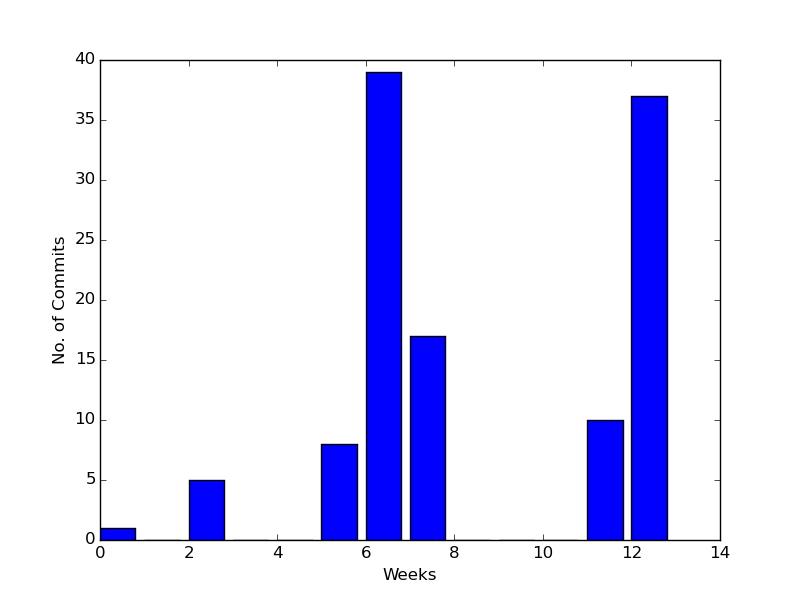
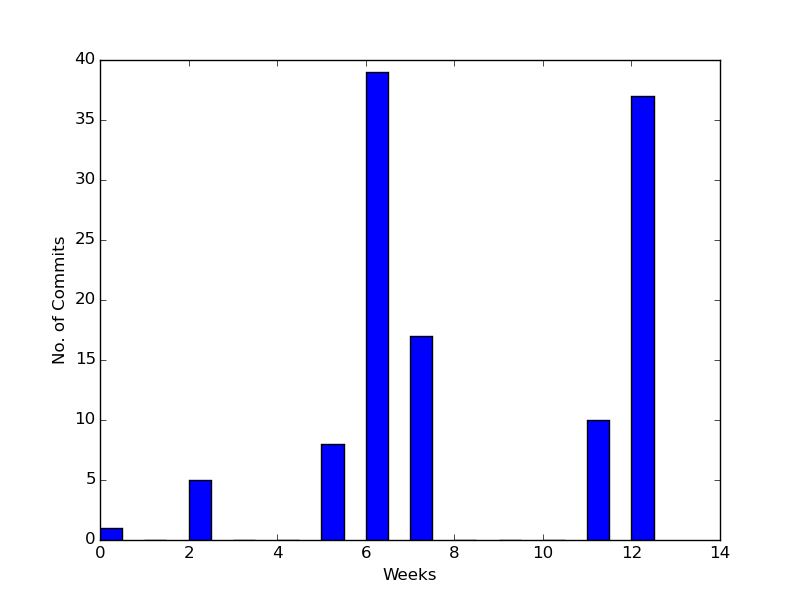
Added Standard Deviation function

diff --git a/commits/commits_standard_deviation.py b/commits/commits_standard_deviation.py
@@ -1,0 +1,89 @@
+from __future__ import print_function
+import urllib2
+import json
+import re,datetime
+import sys
+import csv
+
+
+class L():
+  "Anonymous container"
+  def __init__(i,**fields) : 
+    i.override(fields)
+  def override(i,d): i.__dict__.update(d); return i
+  def __repr__(i):
+    d = i.__dict__
+    name = i.__class__.__name__
+    return name+'{'+' '.join([':%s %s' % (k,pretty(d[k])) 
+                     for k in i.show()])+ '}'
+  def show(i):
+    lst = [str(k)+" : "+str(v) for k,v in i.__dict__.iteritems() if v != None]
+    return ',\t'.join(map(str,lst))
+
+  
+def secs(d0):
+  d     = datetime.datetime(*map(int, re.split('[^\d]', d0)[:-1]))
+  epoch = datetime.datetime.utcfromtimestamp(0)
+  delta = d - epoch
+  return delta.total_seconds()
+
+def mean(data):
+    """Return the sample arithmetic mean of data."""
+    n = len(data)
+    if n < 1:
+        raise ValueError('mean requires at least one data point')
+    return sum(data)/n # in Python 2 use sum(data)/float(n)
+
+def _ss(data):
+    """Return sum of square deviations of sequence data."""
+    c = mean(data)
+    ss = sum((x-c)**2 for x in data)
+    return ss
+
+def std_dev(data):
+    """Calculates the population standard deviation."""
+    n = len(data)
+    if n < 2:
+        raise ValueError('variance requires at least two data points')
+    ss = _ss(data)
+    pvar = ss/n # the population variance
+    return pvar**0.5
+
+def get_standard_deviation(file_name):
+  csvfile = file(file_name,'rb')
+  reader = csv.reader(csvfile)
+  t = []
+  for line in reader:
+     [a,b,c] = line
+     t.append(int(float(b)))
+  t.sort()
+  week = []
+  total_week = (t[-1]-t[0])/(7*24*3600)
+  end = []
+  for i in range(total_week):
+     end.append(t[0]+(i+1)*7*24*3600)
+
+  c = 0
+  for x in t:
+     if  x < end[0]:
+        c += 1
+  week.append(c)
+
+  for alpha in range(1,total_week):
+     c = 0
+     for x in t:
+        if x >= end[alpha-1] and x < end[alpha]:
+            c+= 1
+     week.append(c)
+  print(std_dev(week)/len(t))
+  #plot_graph(week,file_name)
+  #plt.show()
+  csvfile.close()
+
+get_standard_deviation('project1.csv')
+get_standard_deviation('project2.csv')
+get_standard_deviation('project3.csv')
+
+
+
+

diff --git a/commits/commits_distribution.py b/commits/commits_distribution.py
@@ -27,10 +27,11 @@ def secs(d0):
   return delta.total_seconds()
 
 def plot_graph(week,file_name):
-  plt.bar(range(len(week)),week)
+  plt.bar(range(len(week)),week,width=0.50)
   plt.ylabel('No. of Commits')
   plt.xlabel('Weeks')
   plt.savefig(os.path.splitext(file_name)[0]+'.png')
+  plt.clf()
 
 def get_commit_distribution(file_name):
   csvfile = file(file_name,'rb')
